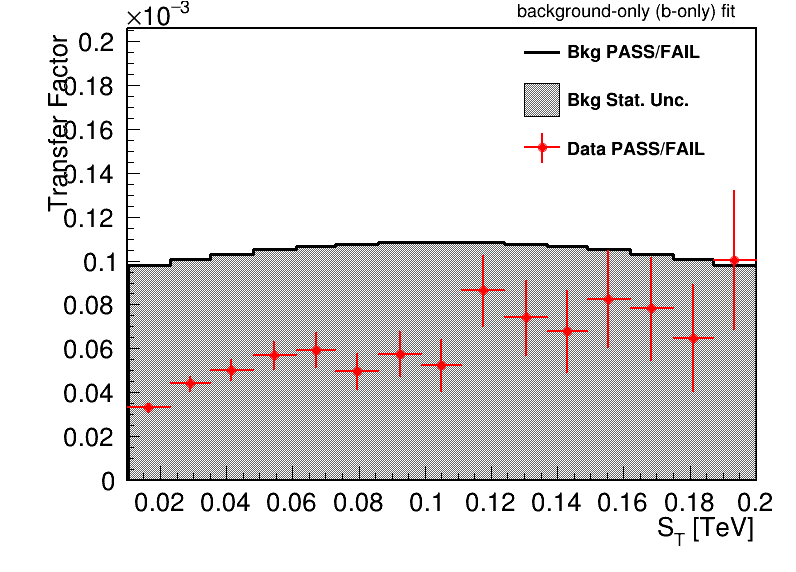
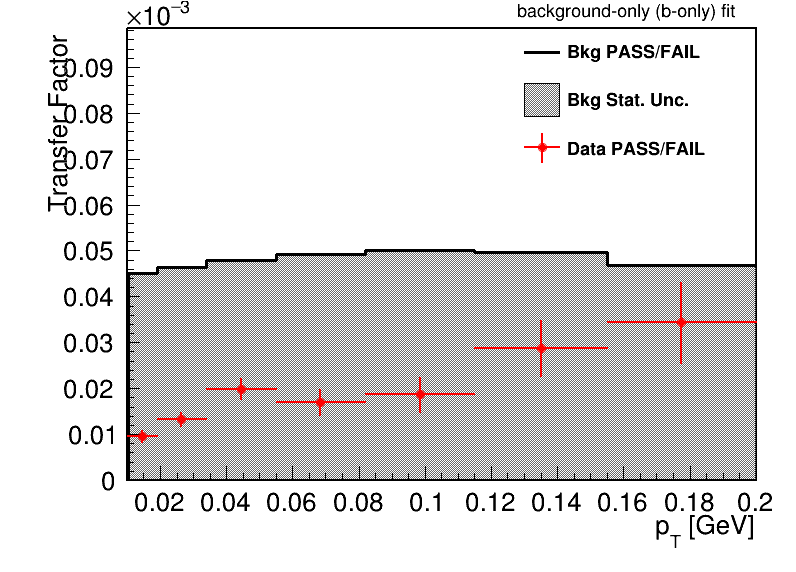
Updated v13 VR2 results

diff --git a/plot_TF_danyi.py b/plot_TF_danyi.py
@@ -50,11 +50,11 @@ if __name__ == "__main__":
         # ===========================
         # rootdir = f'/home/users/dazhang/works/phaseSpace/BlackHoleSearch/CMSSW_14_1_0_pre4/src/rpf{tf}_Binning{binning}_Blind_In{inVersion}_Multi4_FullScan_MD2TeV'
         # rootdir = f'/home/users/dazhang/works/phaseSpace/BlackHoleSearch/CMSSW_14_1_0_pre4/src/rpf{tf}_Binning{binning}_Blind_In{inVersion}_Multi4'
-        rootdir = f'/home/users/smasanam/EarthAsDMProject/CMSSW_14_1_0_pre4/src/rpfmult_Binningv6alt_Inputv12_VR2_Unblind_3000GeV_normalized'
+        rootdir = f'/home/users/smasanam/EarthAsDMProject/CMSSW_14_1_0_pre4/src/rpfmult_Binningv6alt_Inputv13_VR2_Unblind_3000GeV_normalized'
         # rootdir = f'/home/users/dazhang/works/phaseSpace/BlackHoleSearch/CMSSW_14_1_0_pre4/src/rpf{tf}_Binning{binning}_Unblind_In{inVersion}_Multi4'
         # rootdir = f'/home/users/dazhang/works/phaseSpace/BlackHoleSearch/CMSSW_14_1_0_pre4/src/rpf{tf}_Binning{binning}_Unblind_In{inVersion}_Multi4_FullScan_MD2TeV'
         # rootdir = f'/home/users/dazhang/works/phaseSpace/BlackHoleSearch/CMSSW_14_1_0_pre4/src/rpf{tf}_Binning{binning}_Blind_In{inVersion}_Multi4_Extrapol'
-        f = ROOT.TFile.Open(f"/home/users/smasanam/EarthAsDMProject/CMSSW_14_1_0_pre4/src/rpfmult_Binningv6alt_Inputv12_VR2_Unblind_3000GeV_normalized/Signal_M3000GeV-2x0_area/plots_fit_b/all_plots.root")
+        f = ROOT.TFile.Open(f"/home/users/smasanam/EarthAsDMProject/CMSSW_14_1_0_pre4/src/rpfmult_Binningv6alt_Inputv13_VR2_Unblind_3000GeV_normalized/Signal_M3000GeV-1x0_area/plots_fit_b/all_plots.root")
         # get the histogram
         h_fail = f.Get("TotalBkg_fail_postfit_projx2")
         h_pass = f.Get("TotalBkg_pass_postfit_projx2")

diff --git a/runWith1DVanilla_v13_VR2.py b/runWith1DVanilla_v13_VR2.py
@@ -370,8 +370,8 @@ def test_FTest(poly1, poly2, signal=''):
 if __name__ == "__main__":
     make_workspace()
 
-    signal_areas = ["Signal_M3000GeV","Signal_M3000GeV","Signal_M3000GeV"]
-    tf_types = ['0x0','1x0', '2x0']
+    signal_areas = ["Signal_M3000GeV"]#,"Signal_M3000GeV","Signal_M3000GeV"]
+    tf_types = ['2x0']#,'1x0', '2x0']
 
     for signal, tf_type in zip(signal_areas,tf_types) :
       # IGNORE: When there are 100 signals, let's make sure we only run on the ones we didnt do before
